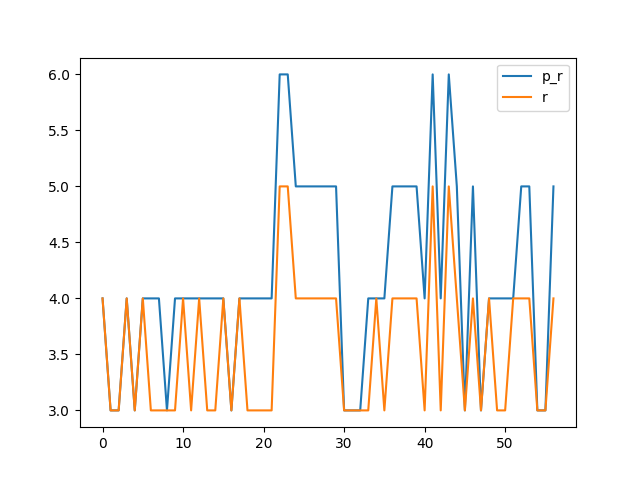
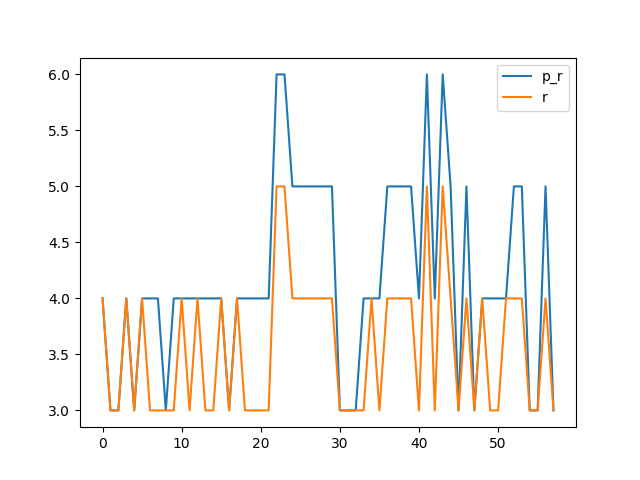
0x0039

diff --git a/benchmark.md b/benchmark.md
@@ -112,16 +112,18 @@ Synthesising 0x0037 pexact:216 r=3 exact:216 r=3
 
 Synthesising 0x0038 pexact:310 r=5 exact:344 r=4
 
+Synthesising 0x0039 pexact:224 r=3 exact:224 r=3
+
 ```mermaid
 xychart-beta
     title "Comparison powertwoexact twoexact"
-    x-axis [0, 1, 2, 3, 4, 5, 6, 7, 8, 9, 10, 11, 12, 13, 14, 15, 16, 17, 18, 19, 20, 21, 22, 23, 24, 25, 26, 27, 28, 29, 30, 31, 32, 33, 34, 35, 36, 37, 38, 39, 40, 41, 42, 43, 44, 45, 46, 47, 48, 49, 50, 51, 52, 53, 54, 55, 56]
+    x-axis [0, 1, 2, 3, 4, 5, 6, 7, 8, 9, 10, 11, 12, 13, 14, 15, 16, 17, 18, 19, 20, 21, 22, 23, 24, 25, 26, 27, 28, 29, 30, 31, 32, 33, 34, 35, 36, 37, 38, 39, 40, 41, 42, 43, 44, 45, 46, 47, 48, 49, 50, 51, 52, 53, 54, 55, 56, 57]
     y-axis "Switching Activity" 0-->464
-    line [96, 152, 152, 182, 152, 182, 208, 182, 152, 208, 182, 182, 182, 182, 182, 182, 152, 182, 208, 182, 208, 182, 406, 400, 336, 310, 310, 304, 310, 304, 224, 216, 152, 208, 182, 182, 336, 310, 310, 304, 208, 406, 182, 400, 310, 224, 304, 216, 182, 182, 182, 182, 310, 304, 224, 216, 310]
-    line [192, 152, 152, 312, 152, 352, 224, 192, 192, 224, 352, 216, 320, 216, 216, 352, 152, 326, 224, 216, 224, 192, 464, 448, 352, 344, 344, 320, 336, 352, 224, 216, 192, 224, 318, 192, 352, 344, 344, 312, 224, 448, 192, 440, 344, 224, 312, 216, 320, 216, 216, 280, 344, 312, 224, 216, 344]
-    line [233.64912280701753, 233.64912280701753, 233.64912280701753, 233.64912280701753, 233.64912280701753, 233.64912280701753, 233.64912280701753, 233.64912280701753, 233.64912280701753, 233.64912280701753, 233.64912280701753, 233.64912280701753, 233.64912280701753, 233.64912280701753, 233.64912280701753, 233.64912280701753, 233.64912280701753, 233.64912280701753, 233.64912280701753, 233.64912280701753, 233.64912280701753, 233.64912280701753, 233.64912280701753, 233.64912280701753, 233.64912280701753, 233.64912280701753, 233.64912280701753, 233.64912280701753, 233.64912280701753, 233.64912280701753, 233.64912280701753, 233.64912280701753, 233.64912280701753, 233.64912280701753, 233.64912280701753, 233.64912280701753, 233.64912280701753, 233.64912280701753, 233.64912280701753, 233.64912280701753, 233.64912280701753, 233.64912280701753, 233.64912280701753, 233.64912280701753, 233.64912280701753, 233.64912280701753, 233.64912280701753, 233.64912280701753, 233.64912280701753, 233.64912280701753, 233.64912280701753, 233.64912280701753, 233.64912280701753, 233.64912280701753, 233.64912280701753, 233.64912280701753, 233.64912280701753]
-    line [275.43859649122805, 275.43859649122805, 275.43859649122805, 275.43859649122805, 275.43859649122805, 275.43859649122805, 275.43859649122805, 275.43859649122805, 275.43859649122805, 275.43859649122805, 275.43859649122805, 275.43859649122805, 275.43859649122805, 275.43859649122805, 275.43859649122805, 275.43859649122805, 275.43859649122805, 275.43859649122805, 275.43859649122805, 275.43859649122805, 275.43859649122805, 275.43859649122805, 275.43859649122805, 275.43859649122805, 275.43859649122805, 275.43859649122805, 275.43859649122805, 275.43859649122805, 275.43859649122805, 275.43859649122805, 275.43859649122805, 275.43859649122805, 275.43859649122805, 275.43859649122805, 275.43859649122805, 275.43859649122805, 275.43859649122805, 275.43859649122805, 275.43859649122805, 275.43859649122805, 275.43859649122805, 275.43859649122805, 275.43859649122805, 275.43859649122805, 275.43859649122805, 275.43859649122805, 275.43859649122805, 275.43859649122805, 275.43859649122805, 275.43859649122805, 275.43859649122805, 275.43859649122805, 275.43859649122805, 275.43859649122805, 275.43859649122805, 275.43859649122805, 275.43859649122805]
-    bar [80, 60, 60, 80, 60, 80, 80, 80, 60, 80, 80, 80, 80, 80, 80, 80, 60, 80, 80, 80, 80, 80, 120, 120, 100, 100, 100, 100, 100, 100, 60, 60, 60, 80, 80, 80, 100, 100, 100, 100, 80, 120, 80, 120, 100, 60, 100, 60, 80, 80, 80, 80, 100, 100, 60, 60, 100]
-    bar [80, 60, 60, 80, 60, 80, 60, 60, 60, 60, 80, 60, 80, 60, 60, 80, 60, 80, 60, 60, 60, 60, 100, 100, 80, 80, 80, 80, 80, 80, 60, 60, 60, 60, 80, 60, 80, 80, 80, 80, 60, 100, 60, 100, 80, 60, 80, 60, 80, 60, 60, 80, 80, 80, 60, 60, 80]
+    line [96, 152, 152, 182, 152, 182, 208, 182, 152, 208, 182, 182, 182, 182, 182, 182, 152, 182, 208, 182, 208, 182, 406, 400, 336, 310, 310, 304, 310, 304, 224, 216, 152, 208, 182, 182, 336, 310, 310, 304, 208, 406, 182, 400, 310, 224, 304, 216, 182, 182, 182, 182, 310, 304, 224, 216, 310, 224]
+    line [192, 152, 152, 312, 152, 352, 224, 192, 192, 224, 352, 216, 320, 216, 216, 352, 152, 326, 224, 216, 224, 192, 464, 448, 352, 344, 344, 320, 336, 352, 224, 216, 192, 224, 318, 192, 352, 344, 344, 312, 224, 448, 192, 440, 344, 224, 312, 216, 320, 216, 216, 280, 344, 312, 224, 216, 344, 224]
+    line [233.48275862068965, 233.48275862068965, 233.48275862068965, 233.48275862068965, 233.48275862068965, 233.48275862068965, 233.48275862068965, 233.48275862068965, 233.48275862068965, 233.48275862068965, 233.48275862068965, 233.48275862068965, 233.48275862068965, 233.48275862068965, 233.48275862068965, 233.48275862068965, 233.48275862068965, 233.48275862068965, 233.48275862068965, 233.48275862068965, 233.48275862068965, 233.48275862068965, 233.48275862068965, 233.48275862068965, 233.48275862068965, 233.48275862068965, 233.48275862068965, 233.48275862068965, 233.48275862068965, 233.48275862068965, 233.48275862068965, 233.48275862068965, 233.48275862068965, 233.48275862068965, 233.48275862068965, 233.48275862068965, 233.48275862068965, 233.48275862068965, 233.48275862068965, 233.48275862068965, 233.48275862068965, 233.48275862068965, 233.48275862068965, 233.48275862068965, 233.48275862068965, 233.48275862068965, 233.48275862068965, 233.48275862068965, 233.48275862068965, 233.48275862068965, 233.48275862068965, 233.48275862068965, 233.48275862068965, 233.48275862068965, 233.48275862068965, 233.48275862068965, 233.48275862068965, 233.48275862068965]
+    line [274.55172413793105, 274.55172413793105, 274.55172413793105, 274.55172413793105, 274.55172413793105, 274.55172413793105, 274.55172413793105, 274.55172413793105, 274.55172413793105, 274.55172413793105, 274.55172413793105, 274.55172413793105, 274.55172413793105, 274.55172413793105, 274.55172413793105, 274.55172413793105, 274.55172413793105, 274.55172413793105, 274.55172413793105, 274.55172413793105, 274.55172413793105, 274.55172413793105, 274.55172413793105, 274.55172413793105, 274.55172413793105, 274.55172413793105, 274.55172413793105, 274.55172413793105, 274.55172413793105, 274.55172413793105, 274.55172413793105, 274.55172413793105, 274.55172413793105, 274.55172413793105, 274.55172413793105, 274.55172413793105, 274.55172413793105, 274.55172413793105, 274.55172413793105, 274.55172413793105, 274.55172413793105, 274.55172413793105, 274.55172413793105, 274.55172413793105, 274.55172413793105, 274.55172413793105, 274.55172413793105, 274.55172413793105, 274.55172413793105, 274.55172413793105, 274.55172413793105, 274.55172413793105, 274.55172413793105, 274.55172413793105, 274.55172413793105, 274.55172413793105, 274.55172413793105, 274.55172413793105]
+    bar [80, 60, 60, 80, 60, 80, 80, 80, 60, 80, 80, 80, 80, 80, 80, 80, 60, 80, 80, 80, 80, 80, 120, 120, 100, 100, 100, 100, 100, 100, 60, 60, 60, 80, 80, 80, 100, 100, 100, 100, 80, 120, 80, 120, 100, 60, 100, 60, 80, 80, 80, 80, 100, 100, 60, 60, 100, 60]
+    bar [80, 60, 60, 80, 60, 80, 60, 60, 60, 60, 80, 60, 80, 60, 60, 80, 60, 80, 60, 60, 60, 60, 100, 100, 80, 80, 80, 80, 80, 80, 60, 60, 60, 60, 80, 60, 80, 80, 80, 80, 60, 100, 60, 100, 80, 60, 80, 60, 80, 60, 60, 80, 80, 80, 60, 60, 80, 60]
 ```
 
